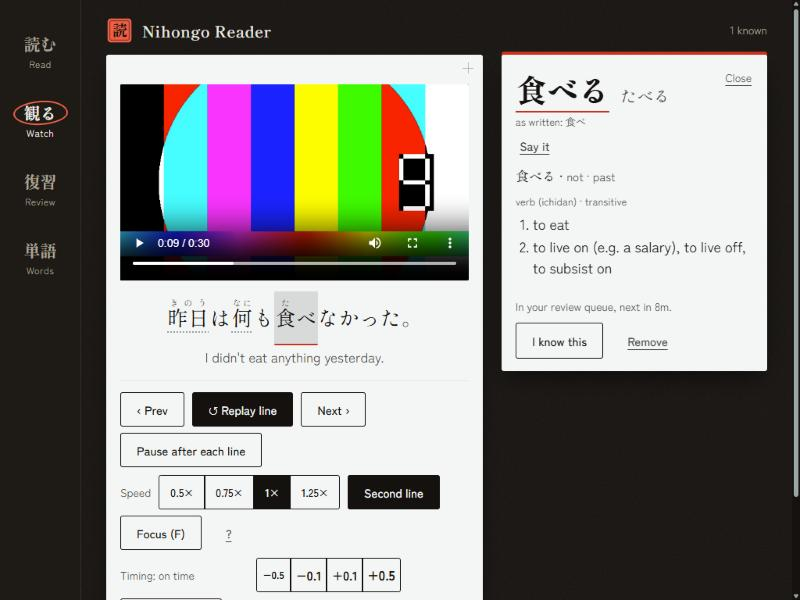
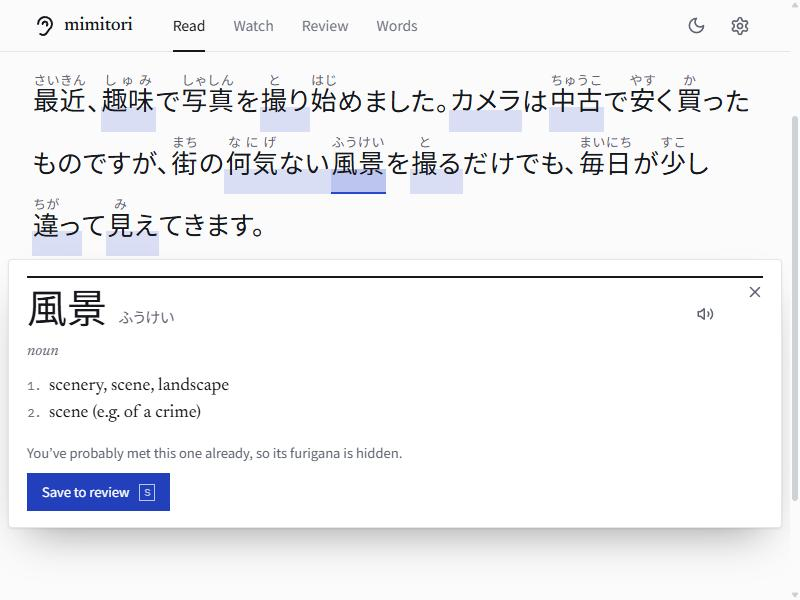
Add install button, gothic Japanese font and removable recent books

diff --git a/src/App.jsx b/src/App.jsx
@@ -22,6 +22,35 @@ const TABS = [
 
 const flags = createFlags();
 
+// Chrome, Edge and Android offer to install the site as an app. Catch the offer early, before the shell mounts.
+// No iOS or Firefox prompt exists; there it's Share > Add to Home Screen, which the README covers.
+let installOffer = null;
+window.addEventListener("beforeinstallprompt", (e) => {
+  e.preventDefault();
+  installOffer = e;
+  window.dispatchEvent(new Event("install-offer"));
+});
+window.addEventListener("appinstalled", () => {
+  installOffer = null;
+  window.dispatchEvent(new Event("install-offer"));
+});
+
+function useInstallOffer() {
+  const [offer, setOffer] = useState(installOffer);
+  useEffect(() => {
+    const sync = () => setOffer(installOffer);
+    window.addEventListener("install-offer", sync);
+    return () => window.removeEventListener("install-offer", sync);
+  }, []);
+  if (!offer) return null;
+  return async () => {
+    offer.prompt();
+    await offer.userChoice;
+    installOffer = null; // each offer can only be used once
+    setOffer(null);
+  };
+}
+
 function Shell() {
   // First visit lands on Watch, where the sample clip is one tap away. After that, Read as before.
   const [tab, setTab] = useState(() => (flags.has("visited") ? "read" : "watch"));
@@ -39,6 +68,7 @@ function Shell() {
   const { state, setSettings } = useStore();
   const inAnkiMode = ankiMode(state);
   const dark = isDark(state.settings.theme);
+  const install = useInstallOffer();
   const { queueCount, refreshQueue } = useAnki(inAnkiMode && tab !== "settings"); // keeps known words fresh; Settings runs its own
 
   // Send waiting cards when the app gains focus and every 30 s while any wait.
@@ -88,6 +118,11 @@ function Shell() {
           ))}
         </nav>
         <div className="app__side">
+          {install && (
+            <button className="icon-btn" aria-label="Install Mimitori as an app" title="Install Mimitori as an app" onClick={install}>
+              <Icon name="download" size={19} />
+            </button>
+          )}
           <button
             className="icon-btn app__theme"
             aria-label={dark ? "Switch to light" : "Switch to dark"}

diff --git a/src/components/ReadView.jsx b/src/components/ReadView.jsx
@@ -10,6 +10,7 @@ import WordPanel from "./WordPanel";
 import { sentenceAround, sentenceContext } from "../lib/sentence";
 import { loadBookRecents, saveBookRecents, coverKey } from "../lib/book/recents";
 import { upsertRecent, droppedKeys } from "../lib/recents";
+import Icon from "./Icon";
 import { putImage, getImageUrl, deleteImage } from "../lib/images";
 import { createFlags } from "../lib/firstRun";
 import { filesFromDrop, pickBookFiles } from "../lib/book/drop";
@@ -171,9 +172,14 @@ export default function ReadView({ onOpenSettings }) {
   }
 
   function savePage(page) {
-    const patch = { key: book.key, name: book.title, page, pageCount: book.pageCount };
+    setBookRecents(upsertRecent(recentsRef.current, { key: book.key, name: book.title, page, pageCount: book.pageCount }));
+  }
+
+  // Drops a book from "Carry on reading", cover and all. The file itself was never kept.
+  const removeRecent = (key) => setBookRecents(recentsRef.current.filter((r) => r.key !== key));
+
+  function setBookRecents(next) {
     const prev = recentsRef.current;
-    const next = upsertRecent(prev, patch);
     for (const k of droppedKeys(prev, next)) deleteImage(coverKey(k));
     recentsRef.current = next;
     setRecents(next);
@@ -327,6 +333,14 @@ export default function ReadView({ onOpenSettings }) {
                             onClick={() => fileInput.current.click()}
                           >
                             Open
+                          </button>
+                          <button
+                            className="icon-btn recents__remove row-action"
+                            aria-label={`Remove ${r.name} from this list`}
+                            title="Remove from this list"
+                            onClick={() => removeRecent(r.key)}
+                          >
+                            <Icon name="close" size={16} />
                           </button>
                         </li>
                       ))}

diff --git a/index.html b/index.html
@@ -11,6 +11,7 @@
     <link rel="icon" href="/favicon.svg" type="image/svg+xml" />
     <link rel="icon" href="/favicon-32.png" sizes="32x32" type="image/png" />
     <link rel="apple-touch-icon" href="/apple-touch-icon.png" />
+    <link rel="manifest" href="/manifest.webmanifest" />
     <meta property="og:type" content="website" />
     <meta property="og:url" content="https://mimitori.com/" />
     <meta property="og:title" content="Mimitori" />
@@ -22,7 +23,7 @@
     <link rel="preconnect" href="https://fonts.googleapis.com" />
     <link rel="preconnect" href="https://fonts.gstatic.com" crossorigin />
     <link
-      href="https://fonts.googleapis.com/css2?family=IBM+Plex+Mono:wght@400;500&family=Newsreader:ital,opsz,wght@0,6..72,400;0,6..72,500;1,6..72,400&family=Noto+Sans+JP:wght@400;500&family=Noto+Serif+JP:wght@400;500&display=swap"
+      href="https://fonts.googleapis.com/css2?family=IBM+Plex+Mono:wght@400;500&family=Newsreader:ital,opsz,wght@0,6..72,400;0,6..72,500;1,6..72,400&family=Noto+Sans+JP:wght@400;500&display=swap"
       rel="stylesheet"
     />
     <!--

diff --git a/src/App.css b/src/App.css
@@ -480,7 +480,10 @@ ruby {
 rt {
   transition: opacity 200ms var(--ease-out), visibility 0s;
   font-family: var(--font);
-  font-size: 0.42em;
+  /* Half the word's size, the usual furigana size, with a small gap so readings never sit on the kanji. */
+  font-size: 0.5em;
+  line-height: 1.2;
+  padding-bottom: 0.2em;
   font-weight: 400;
   letter-spacing: 0;
   color: var(--text-2);
@@ -3480,7 +3483,7 @@ rt.rt--known {
 }
 
 .recents--books .recents__row {
-  grid-template-columns: 30px minmax(0, 1fr) auto auto;
+  grid-template-columns: 30px minmax(0, 1fr) auto auto auto;
   gap: 4px 14px;
 }
 
@@ -3501,6 +3504,20 @@ rt.rt--known {
 
 .recents--books .recents__go {
   grid-column: 4;
+}
+
+.recents--books .recents__remove {
+  grid-column: 5;
+  width: 32px;
+  height: 32px;
+  margin-right: -8px;
+}
+
+@media (pointer: coarse) {
+  .recents--books .recents__remove {
+    width: 44px;
+    height: 44px;
+  }
 }
 
 .book__type {

diff --git a/public/kuromoji.js b/public/kuromoji.js
@@ -8123,8 +8123,15 @@ BrowserDictionaryLoader.prototype.loadArrayBuffer = function (url, callback) {
             return;
         }
         var arraybuffer = this.response;
+        var bytes = new Uint8Array(arraybuffer);
 
-        var gz = new zlib.Zlib.Gunzip(new Uint8Array(arraybuffer));
+        // Mimitori: some hosts (Cloudflare Pages) send .gz files with Content-Encoding: gzip,
+        // so the browser has already unzipped them. Only gunzip what still starts with the gzip magic bytes.
+        if (bytes[0] !== 0x1f || bytes[1] !== 0x8b) {
+            callback(null, arraybuffer);
+            return;
+        }
+        var gz = new zlib.Zlib.Gunzip(bytes);
         var typed_array = gz.decompress();
         callback(null, typed_array.buffer);
     };

diff --git a/src/index.css b/src/index.css
@@ -33,8 +33,8 @@
   --stage: #0d0f12;
 
   --font: "Noto Sans JP", system-ui, -apple-system, "Segoe UI", "Hiragino Sans", "Yu Gothic UI", sans-serif;
-  /* Japanese lines, words and meanings. Newsreader has no kana, so Japanese falls through to Noto Serif JP. */
-  --serif: "Newsreader", "Noto Serif JP", "Hiragino Mincho ProN", "Yu Mincho", Georgia, serif;
+  /* Japanese lines, words and meanings. Newsreader has no kana, so Japanese falls through to Noto Sans JP, a plain gothic that reads like everyday Japanese print. */
+  --serif: "Newsreader", "Noto Sans JP", "Hiragino Sans", "Yu Gothic", "Meiryo", Georgia, sans-serif;
   /* Only for timecodes, counts and keys. */
   --mono: "IBM Plex Mono", ui-monospace, "Cascadia Mono", Consolas, monospace;
   --radius: 0px;

diff --git a/README.md b/README.md
@@ -2,17 +2,19 @@
 
 # Mimitori
 
-A free, open source study app for Japanese learners. Read real Japanese or watch your own videos with Japanese subtitles, tap any word for its meaning, save it, and review it later. No account, no setup, and your files never leave your computer.
+A free, open source study app for Japanese learners. Read manga, PDFs and plain text, or watch your own videos with Japanese subtitles. Tap any word for its reading and meaning, save it, and review it later. No account, no setup, and your files never leave your computer.
 
-![The Watch tab: a video with the current line in furigana underneath, its English line, and the word card for 食べる open](docs/screenshot.jpg)
+![The Read tab: a short Japanese passage with furigana, and the word card for 風景 open](docs/screenshot.jpg)
 
 ## What it does
 
-- **Read:** paste Japanese and get furigana over the kanji. Tap a word for its meaning and save it.
+- **Read manga and PDFs:** open a `.cbz`, `.zip`, PDF or a folder of pages. Drop it on the page or pick it. Draw a box around a speech bubble and Mimitori reads the text out of it, right on your computer. The reader is a one-off 117 MB download. PDFs with real text skip that step. Your recent books remember the page you got to.
+- **Read text:** paste Japanese and get furigana over the kanji. Tap a word for its meaning and save it. Not sure what to read? There are 50 short samples to try.
 - **Watch:** drop in a video and its subtitle file (`.srt`, `.vtt` or `.ass`). The current line shows with furigana and tappable words. You can replay a line, pause after each one, slow things down, and fix subtitles that are out of sync.
 - **Make subtitles:** if a video has no subtitle file, the Watch tab can make Japanese subtitles on your own computer. Nothing is uploaded. It needs a one-off 564 MB model download and works best in Chrome or Edge.
 - **Review:** saved words come back as flashcards with spaced repetition (FSRS), so they actually stick.
 - **Words:** see everything you've saved, mark words as known, and export to Anki as CSV.
+- **Backup:** save everything (words, reviews, known words, settings) to one file in Settings, and restore it on another device.
 
 Furigana can show on every word, only on words you don't know yet, or not at all.
 
@@ -46,7 +48,7 @@ Each card gets the word, reading, meaning, the sentence with the word in bold, a
 
 If Anki is closed, cards wait in a queue and go in later. A waiting card goes to the deck you chose when you saved it.
 
-Words already in your deck count as known, so they lose their furigana.
+Mimitori and Anki stay in step both ways. Words already in your deck count as known, so they lose their furigana. Words you mark known in Mimitori get the `mimitori-known` tag in Anki.
 
 If you rename a field in Anki, the app pauses saving and asks you to re-check the fields in Settings.
 
@@ -56,6 +58,23 @@ Not checked yet:
 - If you rename a field in your note type, saving pauses and asks you to check the field matching again. Automated tests cover this, but it wasn't tried on a real Anki collection.
 - The waiting list for when Anki is closed while you save is covered by automated tests too, but wasn't tried live.
 - Phones aren't supported for Anki yet.
+
+## Install it as an app
+
+Mimitori works as a web page, but you can also install it so it opens in its own window.
+
+- **Chrome, Edge or Android:** press the install button (the down arrow) at the top of the page.
+- **iPhone or iPad:** in Safari, press **Share**, then **Add to Home Screen**.
+
+## Host your own copy
+
+The site is plain static files, so any static host works. It's set up for Cloudflare Pages:
+
+1. Connect the repo in Cloudflare Pages.
+2. Set the build command to `npm run build` and the output folder to `dist`.
+3. Deploy. The build checks that no file is over Cloudflare's 25 MiB limit.
+
+The speech and manga models come from Hugging Face, and the ONNX runtime comes from jsDelivr, so they don't count against that limit.
 
 ## Translation (optional)
 

diff --git a/DESIGN.md b/DESIGN.md
@@ -42,49 +42,49 @@ colors:
   danger-dark: "#ff7a66"
 typography:
   display:
-    fontFamily: "Newsreader, Noto Serif JP, Hiragino Mincho ProN, Yu Mincho, Georgia, serif"
+    fontFamily: "Newsreader, Noto Sans JP, Hiragino Sans, Yu Gothic, Georgia, serif"
     fontSize: "72px"
     fontWeight: 400
     lineHeight: 1
   headline:
-    fontFamily: "Newsreader, Noto Serif JP, serif"
+    fontFamily: "Newsreader, Noto Sans JP, serif"
     fontSize: "56px"
     fontWeight: 400
     lineHeight: 1.2
   term:
-    fontFamily: "Newsreader, Noto Serif JP, serif"
+    fontFamily: "Newsreader, Noto Sans JP, serif"
     fontSize: "40px"
     fontWeight: 400
     lineHeight: 1.2
   cue:
-    fontFamily: "Newsreader, Noto Serif JP, serif"
+    fontFamily: "Newsreader, Noto Sans JP, serif"
     fontSize: "clamp(22px, read-size + 6px, 40px)"
     fontWeight: 400
     lineHeight: 1.95
     letterSpacing: "0.01em"
   reading:
-    fontFamily: "Newsreader, Noto Serif JP, serif"
+    fontFamily: "Newsreader, Noto Sans JP, serif"
     fontSize: "clamp(22px, read-size + 6px, 40px)"
     fontWeight: 400
     lineHeight: 1.95
     letterSpacing: "0.01em"
   figure:
-    fontFamily: "Newsreader, Noto Serif JP, serif"
+    fontFamily: "Newsreader, Noto Sans JP, serif"
     fontSize: "26px"
     fontWeight: 400
     lineHeight: 1.2
   entry:
-    fontFamily: "Newsreader, Noto Serif JP, serif"
+    fontFamily: "Newsreader, Noto Sans JP, serif"
     fontSize: "19px"
     fontWeight: 400
     lineHeight: 1.4
   meaning:
-    fontFamily: "Newsreader, Noto Serif JP, serif"
+    fontFamily: "Newsreader, Noto Sans JP, serif"
     fontSize: "16px"
     fontWeight: 400
     lineHeight: 1.5
   margin-note:
-    fontFamily: "Newsreader, Noto Serif JP, serif"
+    fontFamily: "Newsreader, Noto Sans JP, serif"
     fontSize: "15px"
     fontWeight: 400
     lineHeight: 1.5
@@ -222,7 +222,7 @@ A cool neutral scale carries the page. Ink is the only accent.
 
 ## Typography
 
-**Serif:** Newsreader, then Noto Serif JP (Newsreader has no kana, so Japanese falls through), Hiragino Mincho ProN, Yu Mincho, Georgia.
+**Serif:** Newsreader, then Noto Sans JP (Newsreader has no kana, so Japanese falls through to a plain gothic, easier to read than mincho at small sizes), Hiragino Sans, Yu Gothic, Georgia.
 **Sans:** Noto Sans JP with system-ui fallbacks, `palt` on.
 **Mono:** IBM Plex Mono, only for timecodes, counts and keys.
 
